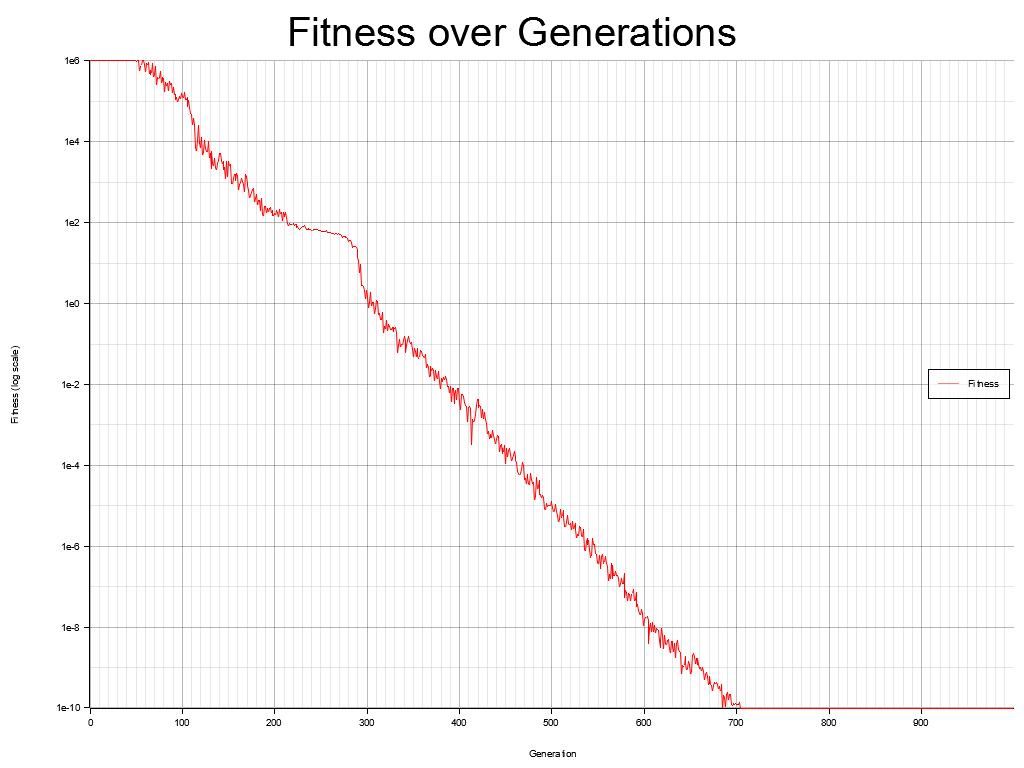
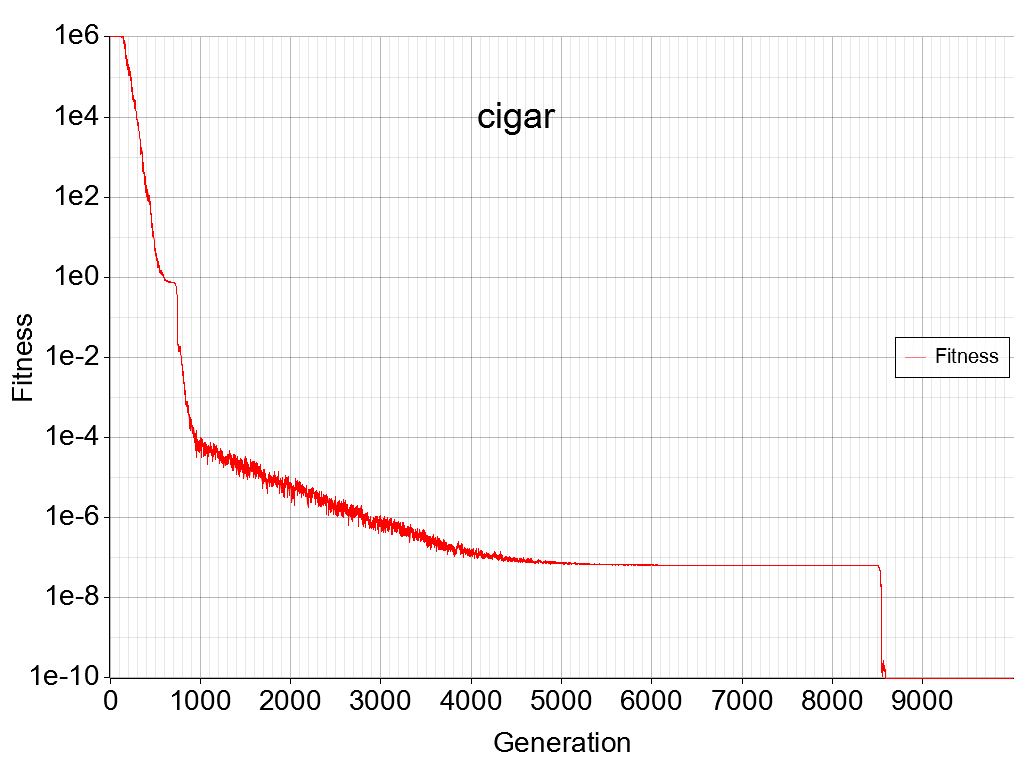
Seeding, plot titles

diff --git a/src/main.rs b/src/main.rs
@@ -23,22 +23,23 @@ static mut LAMBDA: usize = 7; // Population size (will be updated)
 static mut MAX_GENERATIONS: usize = 30000; // Max number of generations (will be updated)
 
 fn main() {
-    // Parameter initialization as in the Appendix
     run_for_art();
     //run_for_cec();
 }
 
 fn run_for_art() {
     unsafe {
-        DIMENSIONS = 10; // Set your desired dimensions
+        let seed = 42; // Example seed value
+        DIMENSIONS = 30; // Set your desired dimensions
         LAMBDA = 4 + (3.0 * (DIMENSIONS as f64).ln()).floor() as usize;
-        MAX_GENERATIONS = 100 * DIMENSIONS;
+        MAX_GENERATIONS = 10000;
         MU = (LAMBDA as f64 / 2.0).floor() as usize;
         H = 6 + (3.0 * (DIMENSIONS as f64).sqrt()).floor() as usize;
         CC = 1.0 / (DIMENSIONS as f64).sqrt();
         CD = MU as f64 / ((MU + 2) as f64);
         CE = 2.0 / (DIMENSIONS * DIMENSIONS) as f64;
 
+        println!("Using seed: {}", seed);
         println!("LAMBDA (Population size): {}", LAMBDA);
         println!("MAX_GENERATIONS: {}", MAX_GENERATIONS);
         println!("MU (No best solutions kept): {}", MU);
@@ -48,50 +49,50 @@ fn run_for_art() {
         println!("CE (idk xD): {}", CE);
 
         // Fitness function 1
-        let mut des1 = DES::new();
+        let mut des1 = DES::new(seed);
         des1.run(
             |x| x.iter().map(|&xi| xi * xi).sum(),
             "sum_of_squares.png",
         );
         // Fitness function 2
-        let mut des2 = DES::new();
+        let mut des2 = DES::new(seed);
         des2.run(
             |x| x[0] * x[0] + 1e6 * x.iter().skip(1).map(|&xi| xi * xi).sum::<f64>(),
             "cigar.png",
         );
         // Fitness function 3
-        let mut des3 = DES::new();
+        let mut des3 = DES::new(seed);
         des3.run(
             |x| 1e6 * x[0] * x[0] + x.iter().skip(1).map(|&xi| xi * xi).sum::<f64>(),
             "discus.png",
         );
         // Fitness function 4
-        let mut des4 = DES::new();
+        let mut des4 = DES::new(seed);
         des4.run(
             |x| x.iter().enumerate().map(|(i, &xi)| 10_f64.powf(6.0 * (i as f64) / (x.len() as f64 - 1.0)) * xi * xi).sum::<f64>(),
             "ellipsoid.png",
         );
         // Fitness function 5
-        let mut des5 = DES::new();
+        let mut des5 = DES::new(seed);
         des5.run(
             |x| x.iter().enumerate().map(|(i, &xi)| xi.abs().powf(2.0 * (1.0 + 5.0 * (i as f64) / (x.len() as f64 - 1.0)))).sum::<f64>(),
             "different_powers.png",
         );
         // Ridge functions:
         // Fitness function 6
-        let mut des6 = DES::new();
+        let mut des6 = DES::new(seed);
         des6.run(
             |x| (x[0] + 100.0 * x[1..].iter().map(|&xi| xi * xi).sum::<f64>()).abs(),
             "sharp_ridge.png",
         );
         // Fitness function 7
-        let mut des7 = DES::new();
+        let mut des7 = DES::new(seed);
         des7.run(
             |x| (x[0] + 100.0 * x[1..].iter().map(|&xi| xi * xi).sum::<f64>().sqrt()).abs(),
             "parabolic_ridge.png",
         );
         // Fitness function 8
-        let mut des8 = DES::new();
+        let mut des8 = DES::new(seed);
         des8.run(
             |x| (0..x.len() - 1).map(|i| 100.0 * (x[i] * x[i] - x[i + 1] * x[i + 1]) + (x[i] - 1.0).powi(2)).sum::<f64>().abs(),
             "Rosenbrock.png",
@@ -101,6 +102,7 @@ fn run_for_art() {
 
 fn run_for_cec() {
     unsafe {
+        let seed = 42; // Example seed value
         DIMENSIONS = 10; // Set your desired dimensions from [10, 30, 50, 100]
         LAMBDA = 4 + (3.0 * (DIMENSIONS as f64).ln()).floor() as usize;
         MAX_GENERATIONS = 100 * DIMENSIONS;
@@ -110,6 +112,7 @@ fn run_for_cec() {
         CD = MU as f64 / ((MU + 2) as f64);
         CE = 2.0 / (DIMENSIONS * DIMENSIONS) as f64;
 
+        println!("Using seed: {}", seed);
         println!("LAMBDA (Population size): {}", LAMBDA);
         println!("MAX_GENERATIONS: {}", MAX_GENERATIONS);
         println!("MU (No best solutions kept): {}", MU);
@@ -119,7 +122,7 @@ fn run_for_cec() {
         println!("CE (idk xD): {}", CE);
 
         // Fitness function 1
-        let mut des1 = DES::new();
+        let mut des1 = DES::new(seed);
         des1.run_cec(
             "sum_of_squares.png", "f1"
         );
@@ -189,15 +192,15 @@ struct DES {
     delta_history: Vec<Vec<f64>>, // dim: t x DIMENSIONS // one value per LAMBDA population
     p_history: Vec<Vec<f64>>, // dim: t x DIMENSIONS // one value per LAMBDA population
     m: Vec<f64>, // Just the previous m // one value per LAMBDA population
-    rng: ThreadRng,
+    rng: StdRng,
     generation: usize,
     start_inst: Instant,
     off_timer: Duration
 }
 
 impl DES {
-    pub fn new() -> Self {
-        let rng = thread_rng();
+    pub fn new(seed: u64) -> Self {
+        let rng = StdRng::seed_from_u64(seed);
         let generation = 1;
         let start_inst = Instant::now();
         DES {
@@ -388,7 +391,6 @@ impl DES {
             let t_idx = self.generation - 1; // Index from t
             let old_m = self.m.clone();
 
-            // TODO: take min(MU, LAMBDA) in case MU is bigger than population size
             for d in 0..DIMENSIONS {
                 self.m[d] = (0..MU)
                     .map(|i| self.population_history[t_idx % MAX_GENERATIONS][i][d])
@@ -476,28 +478,33 @@ impl DES {
     }
 
     fn plot_fitness(&self, fitness_values: Vec<f64>, plot_file: &str) {
+        let function_name = &plot_file[..plot_file.rfind('.').unwrap_or(plot_file.len())]
+            .replace('_', " ");
+
         // Initialize the plot
         let root_area = BitMapBackend::new(plot_file, (1024, 768)).into_drawing_area();
         root_area.fill(&WHITE).unwrap();
 
         // Create the chart with logarithmic scale on the y-axis
         let mut chart = ChartBuilder::on(&root_area)
-            .caption("Fitness over Generations", ("sans-serif", 50).into_font())
+            //.caption("Fitness over Generations", ("sans-serif", 50).into_font())
+            .caption(" ", ("sans-serif", 20).into_font())
             .margin(10)
-            .x_label_area_size(50)
-            .y_label_area_size(80)
+            .x_label_area_size(80)
+            .y_label_area_size(100)
             .build_cartesian_2d(
                 0..fitness_values.len(), // X-axis range from 0 to number of fitness values
-                (1e-10..1e6).log_scale(), // Y-axis range with logarithmic scale // max_fitness instead of 1e6
+                (1e-10..1e6).log_scale(), // Y-axis range with logarithmic scale
             )
             .unwrap();
 
         // Configure the mesh and axis labels
         chart
             .configure_mesh()
-            .y_desc("Fitness (log scale)")
+            .y_desc("Fitness")
             .x_desc("Generation")
             .y_label_formatter(&|y| format!("{:.0e}", y))
+            .label_style(("sans-serif", 35).into_font()) // Larger font for axis labels
             .draw()
             .unwrap();
 
@@ -523,11 +530,24 @@ impl DES {
                 )
             });
 
+        // Estimate text width to center
+        let estimated_char_width = 14; // Estimated pixel width per character
+        let text_width = function_name.len() * estimated_char_width;
+        let center_position_x = 512 - (text_width / 2); // Adjust X position to center the text
+
+        // Add text with the plot file name centered at the top of the graph
+        root_area.draw_text(
+            &format!("{}", function_name),
+            &TextStyle::from(("sans-serif", 45).into_font()).color(&BLACK),
+            (center_position_x as i32, 100)
+        ).unwrap();
+
         // Configure series labels and draw the legend
         chart
             .configure_series_labels()
             .background_style(&WHITE.mix(0.8))
             .border_style(&BLACK)
+            .label_font(("sans-serif", 25))
             .draw()
             .unwrap();
     }
